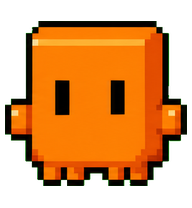
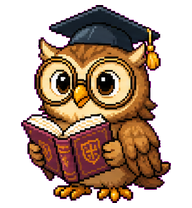
Update default pet

diff --git a/apps/desktop/src/built-in-pet.ts b/apps/desktop/src/built-in-pet.ts
@@ -1,6 +1,6 @@
 export const builtInPet = {
   id: "builtin",
-  displayName: "Built-in Pet",
+  displayName: "Professor Hoot",
   builtIn: true,
   protected: true,
   installed: true,